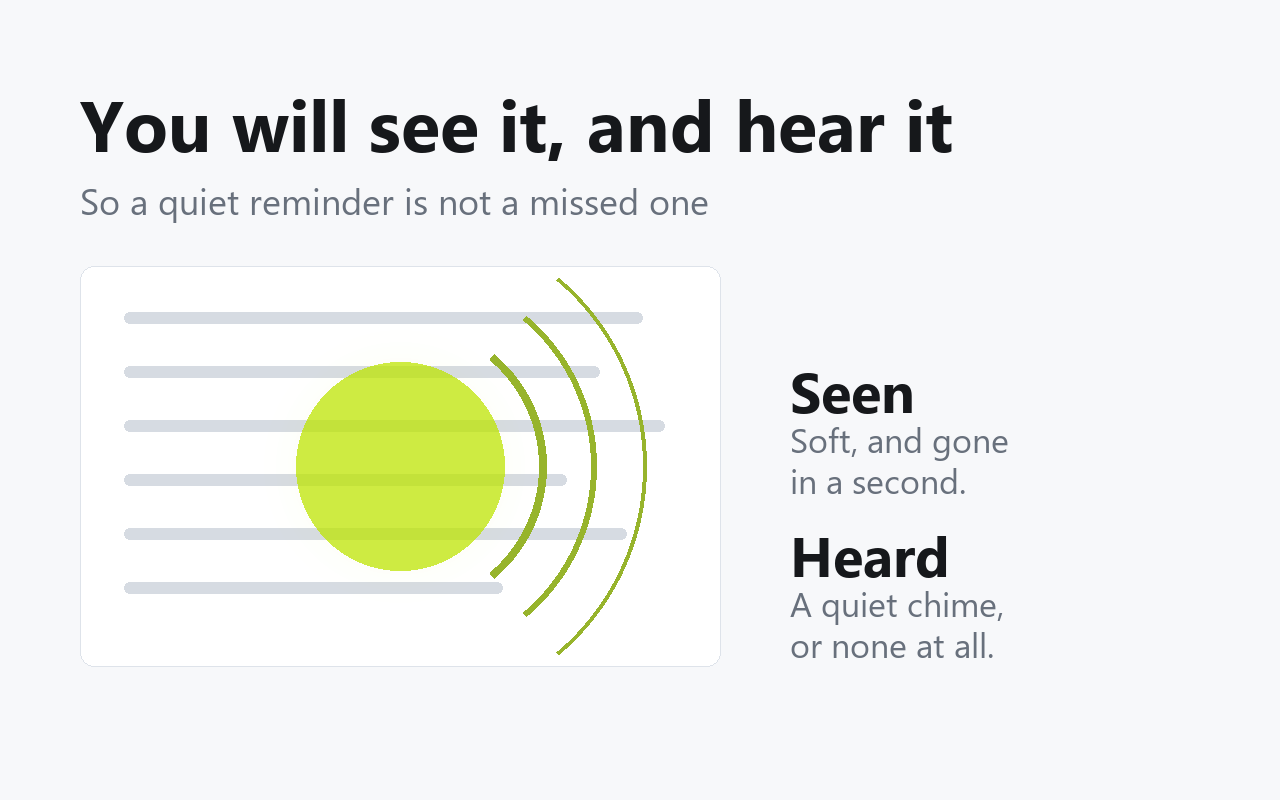
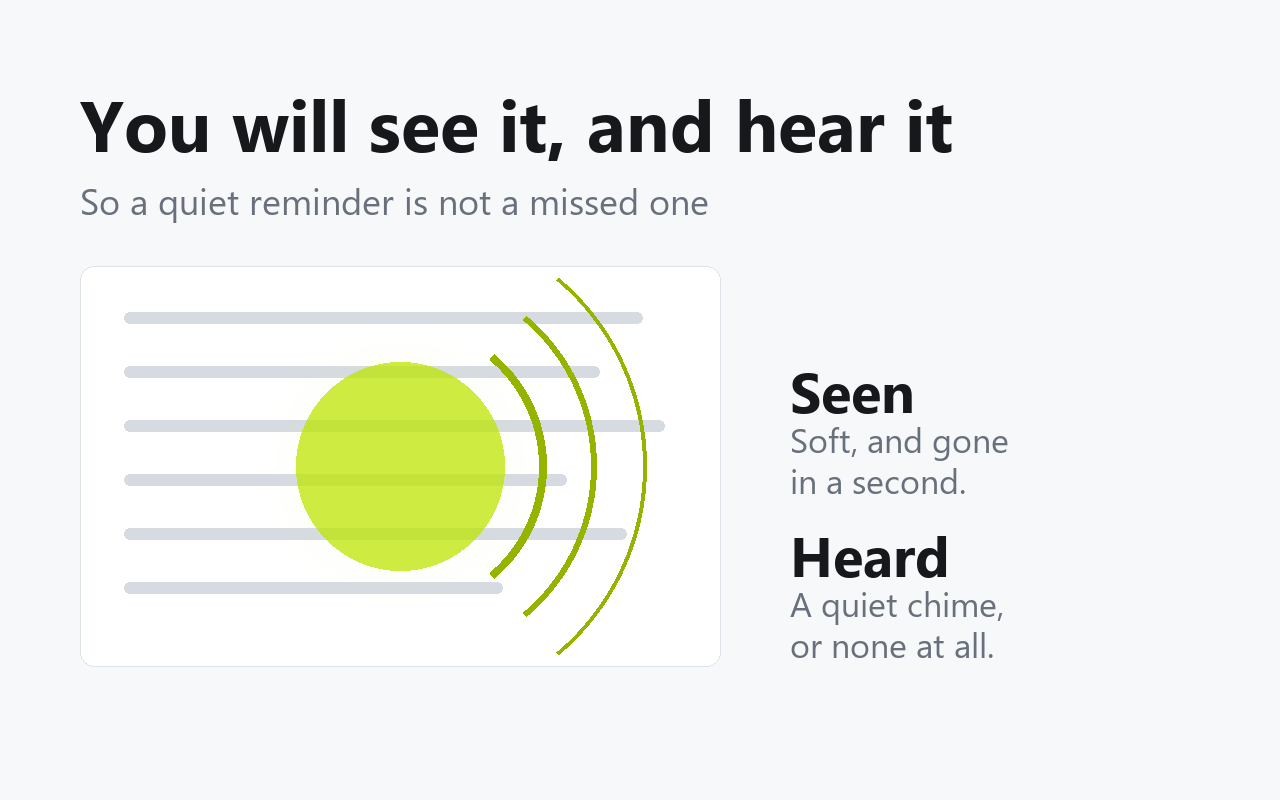
Store: a second accent to compare, and 0-100% on the volume
The volume line now reads 0% to 100%, as the author prefers. Worth knowing
that the slider's real floor is 1% and silence comes from the switch beside
it -- the sentence is a round number rather than a specification, and nobody
will go hunting for the difference.

The accent is a variable now, so the two slides that show the cue over a
white page can be drawn either way. The alternative is the same saturation
and value as the lime, moved from hue 70 to 196, so the comparison is about
colour and not about one being brighter. Both are kept: the originals under
their own names, the alternatives as -alt, and nothing is replaced until
someone has looked at them side by side.

The dark slide and the privacy list stay lime either way, as do the promo
tiles and the icon.

diff --git a/store/make_chrome_screens.py b/store/make_chrome_screens.py
@@ -39,6 +39,14 @@ MUTED = (104, 112, 124)
 RULE = (222, 227, 234)
 HEAD_Y, SUB_Y, BODY_Y = 74, 176, 266
 
+# The cue's own colour, and a second at the same saturation and value
+# (hue 70 -> 196, S .996, V .894) so the two can be compared without one
+# being brighter than the other. Only the slides showing the cue over a
+# white page are drawn both ways; the dark slide and the privacy list keep
+# the brand colour whatever happens.
+ACCENT = LIME
+ALT = (1, 167, 228)
+
 
 def slide(head, sub, bg=PAPER, ink=INK, sub_ink=MUTED):
     """A blank slide with its headline already set. Every slide puts the
@@ -68,8 +76,8 @@ def cue(c, cx, cy, r, alpha=190, glow=0):
     if glow:
         for i in range(glow, 0, -1):
             g.ellipse((cx - r - i * 4, cy - r - i * 4, cx + r + i * 4, cy + r + i * 4),
-                      fill=LIME + (int(6 * (1 - i / float(glow)) ** 2),))
-    g.ellipse((cx - r, cy - r, cx + r, cy + r), fill=LIME + (alpha,))
+                      fill=ACCENT + (int(6 * (1 - i / float(glow)) ** 2),))
+    g.ellipse((cx - r, cy - r, cx + r, cy + r), fill=ACCENT + (alpha,))
     c.alpha_composite(layer)
 
 
@@ -77,7 +85,7 @@ def wash(c, box, radius=14, alpha=102):
     """The break, as it is really drawn: the same lime over the whole page
     at four-tenths, not a dark panel. Nothing in the app ever goes dark."""
     layer = Image.new("RGBA", c.size, (0, 0, 0, 0))
-    ImageDraw.Draw(layer).rounded_rectangle(box, radius, fill=LIME + (alpha,))
+    ImageDraw.Draw(layer).rounded_rectangle(box, radius, fill=ACCENT + (alpha,))
     c.alpha_composite(layer)
 
 
@@ -132,7 +140,8 @@ def s2():
     d = ImageDraw.Draw(c)
     for i, r in enumerate((146, 196, 246)):
         d.arc((400 - r, BODY_Y + 200 - r, 400 + r, BODY_Y + 200 + r),
-              -50, 50, fill=(151, 180, 44), width=max(3, 8 - i * 2))
+              -50, 50, fill=tuple(int(v * 0.79) for v in ACCENT),
+              width=max(3, 8 - i * 2))
     label(d, 790, BODY_Y + 86, "Seen", 56)
     label(d, 790, BODY_Y + 150, "Soft, and gone\nin a second.", 34, False, MUTED)
     label(d, 790, BODY_Y + 250, "Heard", 56)
@@ -160,7 +169,7 @@ def s3():
             layer = Image.new("RGBA", c.size, (0, 0, 0, 0))
             ImageDraw.Draw(layer).text(
                 (mx - d.textlength("Blink", font=f) / 2, my - 38), "Blink",
-                font=f, fill=LIME + (230,))
+                font=f, fill=ACCENT + (230,))
             c.alpha_composite(layer)
         elif name == "Dim screen":
             wash(c, box)
@@ -227,4 +236,12 @@ def save(img, name):
 NAMES = ("two-reminders", "seen-and-heard", "four-styles", "20-20-20", "private")
 for i, fn in enumerate((s1, s2, s3, s4, s5), start=1):
     save(fn(), "s%d-%s.png" % (i, NAMES[i - 1]))
+
+# The same two slides in the cooler accent, kept beside the originals rather
+# than replacing them. Three pale slides in a row is a lot of white, and
+# whether a second colour relieves that or just breaks the set is a thing to
+# look at rather than argue about.
+ACCENT = ALT
+for i, fn in ((2, s2), (3, s3)):
+    save(fn(), "s%d-%s-alt.png" % (i, NAMES[i - 1]))
 print("\nUpload these five as the screenshots, in this order.")

diff --git a/store/chrome/LISTING-UPDATE.md b/store/chrome/LISTING-UPDATE.md
@@ -111,7 +111,7 @@ proposition.
 > A soft cue appears over the page every 30 seconds, or at any interval you
 > choose. A gentle chime carries it when you don't see the cue. A blink
 > reminder has to reach you even when your eyes are on something else. Four
-> sounds, volume from 1% to 100%, or no sound at all.
+> sounds, volume from 0% to 100%.
 >
 > BREAK CUE – EVERY 20 MINUTES
 >
